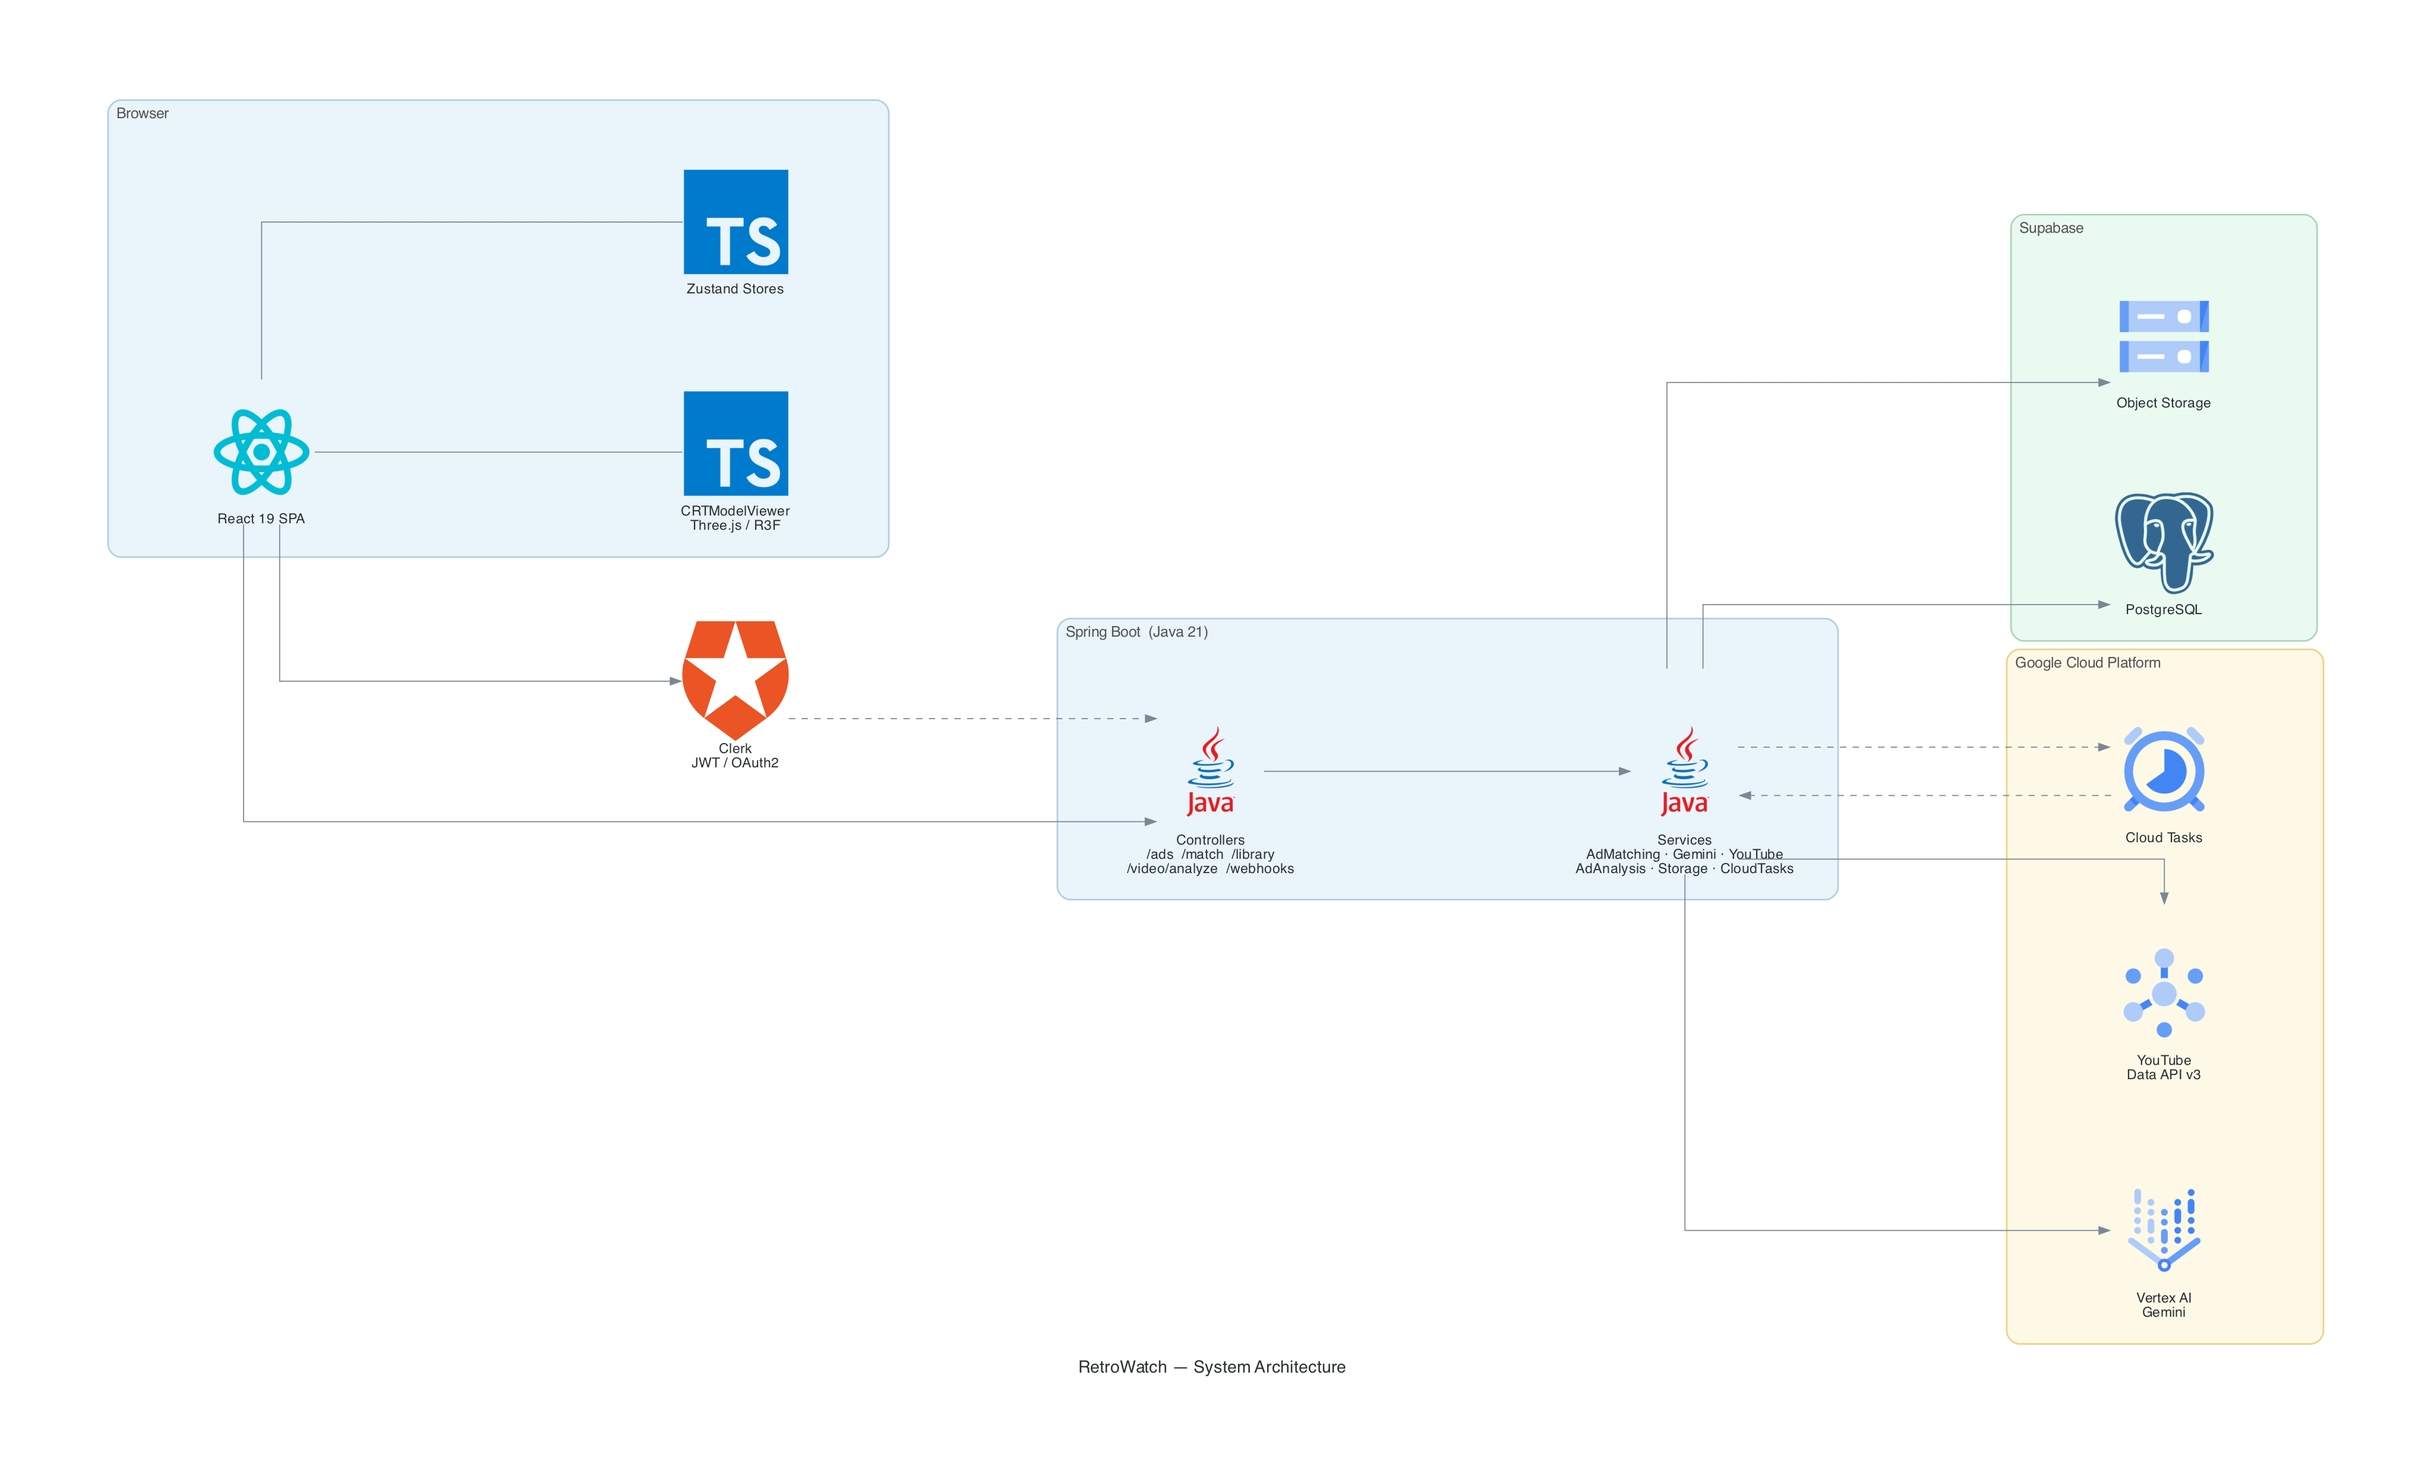
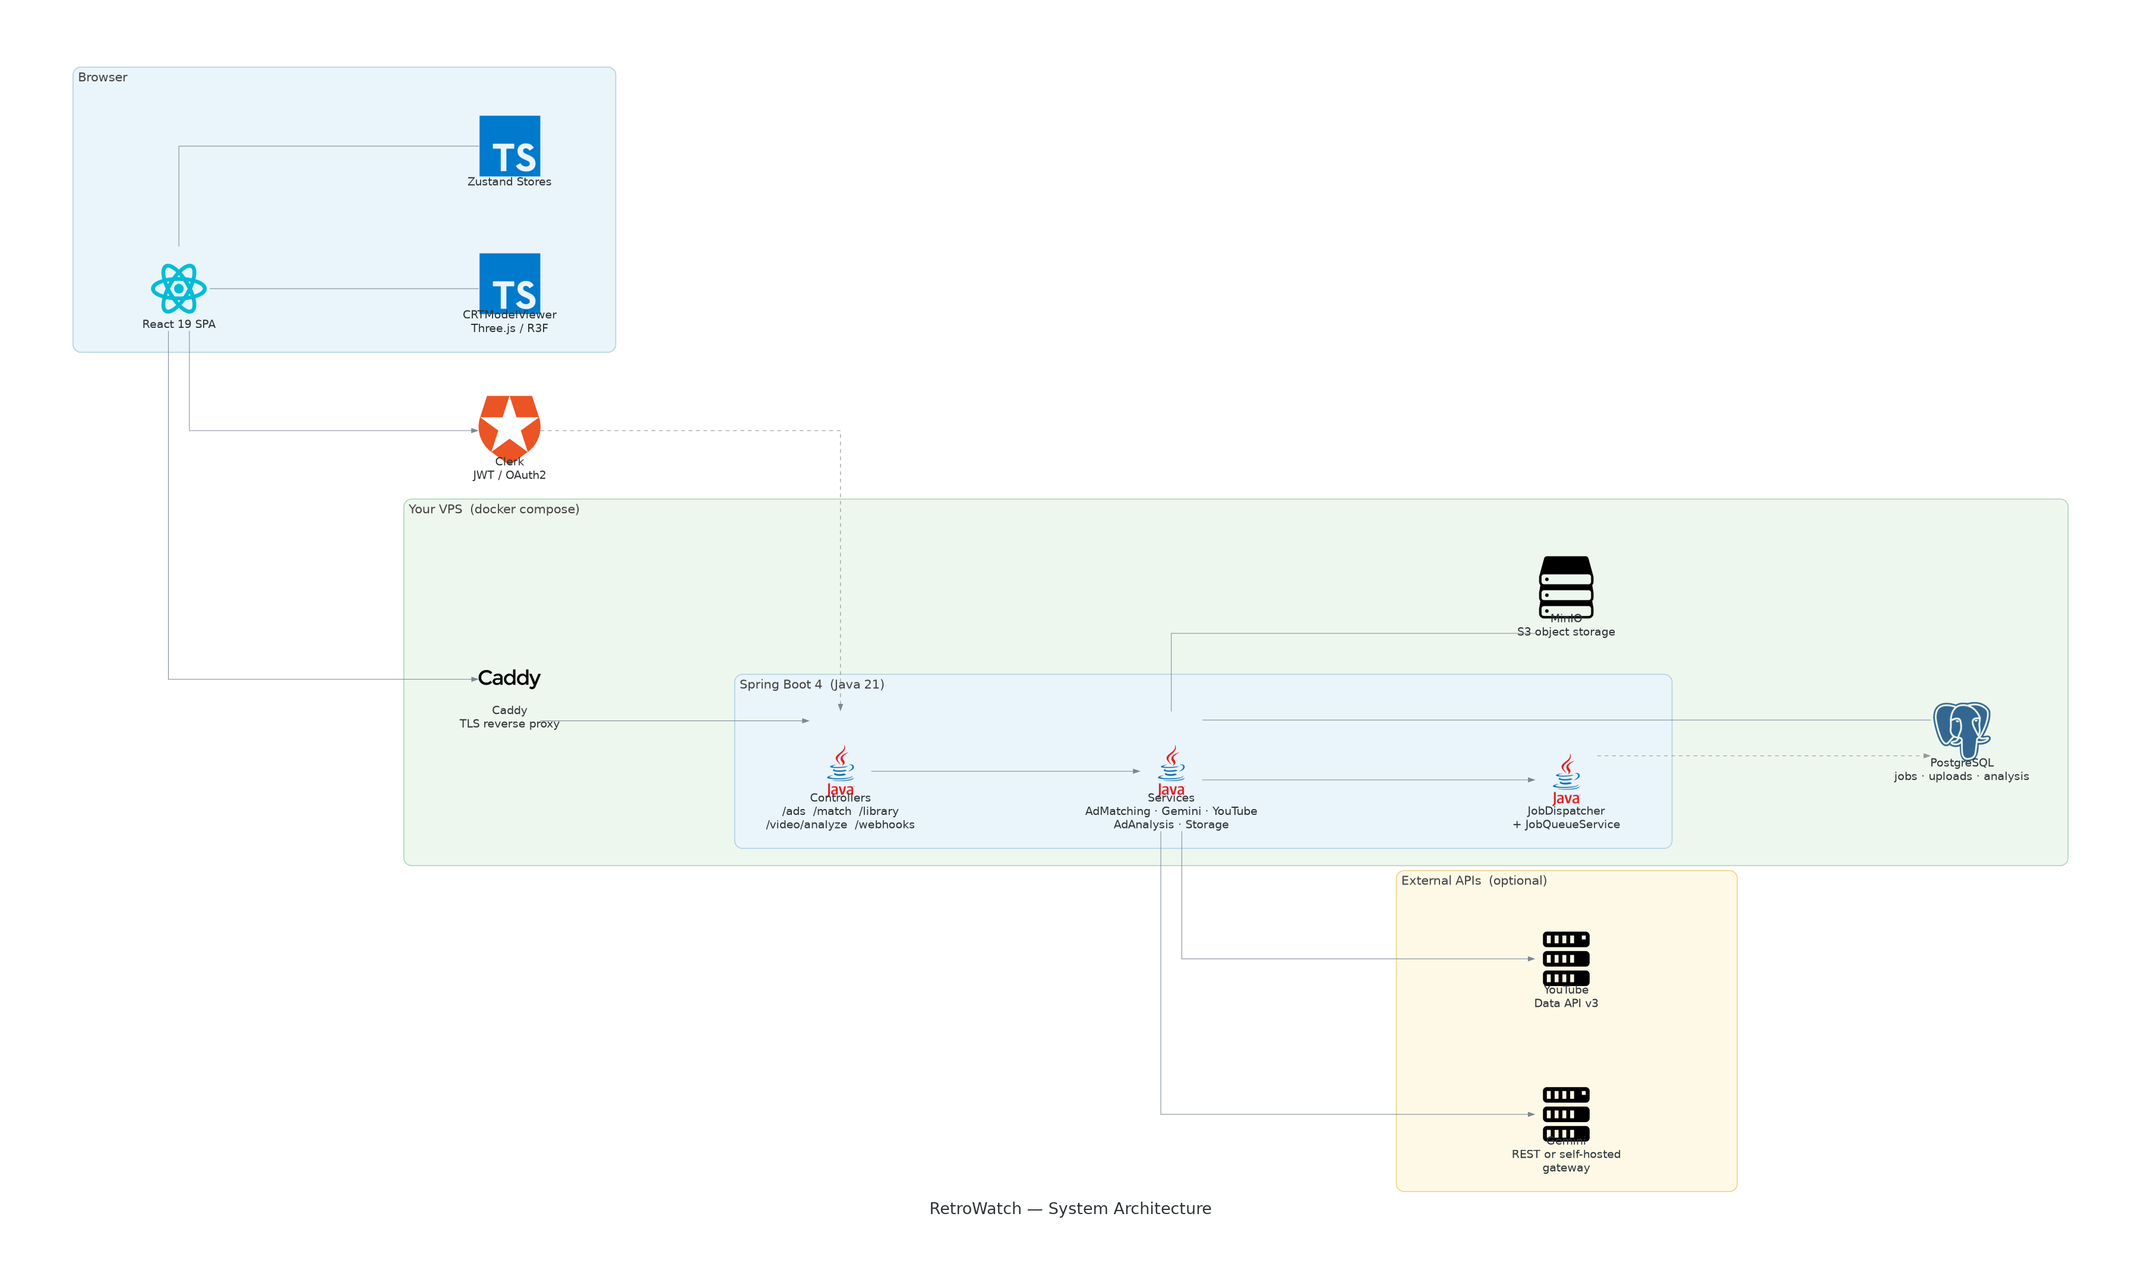
docs: describe the self-hosted architecture and deployment
- README rewritten around the compose stack: dependencies, .env-driven
  configuration, docker/kind/manual workflows, and a VPS deploy section that
  points at deploy/README.md. The Supabase/Vertex AI/Cloud Tasks/Cloud Run
  instructions and the reference to a non-existent run-local.sh are gone.
- architecture_diagram.py redrawn for the current system (Caddy, Spring Boot,
  PostgreSQL, MinIO, Gemini, YouTube) and retrowatch_architecture.png regenerated.

diff --git a/architecture_diagram.py b/architecture_diagram.py
@@ -1,42 +1,45 @@
 from diagrams import Cluster, Diagram, Edge
 from diagrams.programming.framework import React
 from diagrams.programming.language import TypeScript, Java
-from diagrams.gcp.ml import VertexAI
-from diagrams.gcp.devtools import Scheduler
-from diagrams.gcp.analytics import Pubsub
-from diagrams.gcp.storage import GCS
 from diagrams.onprem.database import PostgreSQL
+from diagrams.onprem.network import Caddy
+from diagrams.onprem.compute import Server
 from diagrams.saas.identity import Auth0
+from diagrams.generic.storage import Storage
 
 graph_attr = {
-    "fontsize": "16",
+    "fontsize": "26",
     "bgcolor": "white",
-    "pad": "1.2",
+    "pad": "1.4",
     "splines": "ortho",
     "rankdir": "LR",
-    "dpi": "200",
-    "size": "22,12.375!",
+    "dpi": "160",
+    "size": "24,13.5!",
     "ratio": "fill",
-    "nodesep": "0.8",
-    "ranksep": "1.8",
+    "nodesep": "1.0",
+    "ranksep": "2.0",
     "fontname": "Helvetica",
 }
 
 node_attr = {
-    "fontsize": "13",
+    "fontsize": "18",
     "fontname": "Helvetica",
 }
 
 cluster_attr = {
-    "fontsize": "14",
+    "fontsize": "20",
     "fontname": "Helvetica",
-    "fontcolor": "#555555",
+    "fontcolor": "#444444",
     "style": "rounded,filled",
     "bgcolor": "#eaf4fb",
     "pencolor": "#b0cfe0",
     "penwidth": "1.5",
-    "margin": "24",
+    "margin": "28",
 }
+
+# Self-hosted: every box inside this cluster runs from docker-compose.yml on your
+# own VPS. Nothing in here is a managed cloud service.
+vps_attr = {**cluster_attr, "bgcolor": "#eef7ee", "pencolor": "#a8d5b5"}
 
 with Diagram(
     "RetroWatch — System Architecture",
@@ -59,34 +62,35 @@ with Diagram(
     # ── Identity ───────────────────────────────────────────────────────────
     clerk = Auth0("Clerk\nJWT / OAuth2")
 
-    # ── Backend ────────────────────────────────────────────────────────────
-    with Cluster("Spring Boot  (Java 21)", graph_attr=cluster_attr):
-        controllers = Java("Controllers\n/ads  /match  /library\n/video/analyze  /webhooks")
-        services    = Java("Services\nAdMatching · Gemini · YouTube\nAdAnalysis · Storage · CloudTasks")
-        controllers >> services
+    # ── Self-hosted VPS ────────────────────────────────────────────────────
+    with Cluster("Your VPS  (docker compose)", graph_attr=vps_attr):
+        caddy = Caddy("Caddy\nTLS reverse proxy")
 
-    # ── Supabase ───────────────────────────────────────────────────────────
-    with Cluster("Supabase", graph_attr={**cluster_attr, "bgcolor": "#eafaf1", "pencolor": "#a8d5b5"}):
-        db      = PostgreSQL("PostgreSQL")
-        storage = GCS("Object Storage")
+        with Cluster("Spring Boot 4  (Java 21)", graph_attr=cluster_attr):
+            controllers = Java("Controllers\n/ads  /match  /library\n/video/analyze  /webhooks")
+            services    = Java("Services\nAdMatching · Gemini · YouTube\nAdAnalysis · Storage")
+            queue       = Java("JobDispatcher\n+ JobQueueService")
+            controllers >> services
+            services >> queue
 
-    # ── GCP ────────────────────────────────────────────────────────────────
-    with Cluster("Google Cloud Platform", graph_attr={**cluster_attr, "bgcolor": "#fef9e7", "pencolor": "#f0d080"}):
-        gemini      = VertexAI("Vertex AI\nGemini")
-        yt_api      = Pubsub("YouTube\nData API v3")
-        cloud_tasks = Scheduler("Cloud Tasks")
+        db    = PostgreSQL("PostgreSQL\njobs · uploads · analysis")
+        store = Storage("MinIO\nS3 object storage")
+
+        caddy >> controllers
+        services - db
+        services - store
+        queue >> Edge(color="#999999", style="dashed") >> db
+
+    # ── External APIs ──────────────────────────────────────────────────────
+    with Cluster("External APIs  (optional)", graph_attr={**cluster_attr, "bgcolor": "#fef9e7", "pencolor": "#f0d080"}):
+        gemini = Server("Gemini\nREST or self-hosted\ngateway")
+        yt_api = Server("YouTube\nData API v3")
 
     # ── Edges ──────────────────────────────────────────────────────────────
 
+    react   >> caddy
     react   >> clerk
     clerk   >> Edge(style="dashed") >> controllers
 
-    react   >> controllers
-
-    services >> db
-    services >> storage
-
     services >> gemini
     services >> yt_api
-    services >> Edge(style="dashed") >> cloud_tasks
-    cloud_tasks >> Edge(style="dashed") >> services

diff --git a/README.md b/README.md
@@ -19,15 +19,15 @@ RetroWatch lets you watch any YouTube video through an authentic CRT TV simulati
 
 ## Background
 
-Modern streaming stripped out the communal, serendipitous texture of old TV. RetroWatch is built to bring that back: a 3D CRT television rendered in Three.js, YouTube playback embedded inside it, and an AI pipeline (Vertex AI / Gemini) that picks era-appropriate ads from your own library and splices them in at the right moments.
+Modern streaming stripped out the communal, serendipitous texture of old TV. RetroWatch is built to bring that back: a 3D CRT television rendered in Three.js, YouTube playback embedded inside it, and an AI pipeline (Gemini) that picks era-appropriate ads from your own library and splices them in at the right moments.
 
-The project is a full-stack mono-repo: a React 19 SPA talks to a Spring Boot 4 / Java 21 backend, with Supabase (PostgreSQL + object storage) for persistence and Clerk for auth. Google Cloud Tasks drives async ad analysis, and the YouTube Data API v3 provides video metadata for break-point detection.
+The project is a full-stack mono-repo: a React 19 SPA talks to a Spring Boot 4 / Java 21 backend, with PostgreSQL for persistence and Clerk for auth. Async video processing runs on a database-backed job queue inside the application, object storage is S3-compatible (MinIO), and the YouTube Data API v3 provides video metadata for break-point detection. Everything runs from `docker-compose.yml` on a single VPS — no Google Cloud, no managed services.
 
 ## Architecture
 
 ![RetroWatch System Architecture](retrowatch_architecture.png)
 
-Every user action follows a path through the same layers: React SPA → Clerk JWT → Spring Boot → external services → Supabase. Here is how each major flow works end-to-end.
+Every user action follows a path through the same layers: React SPA → Clerk JWT → Spring Boot → external services → PostgreSQL / object storage. Here is how each major flow works end-to-end.
 
 #### 1. Authentication
 
@@ -39,10 +39,10 @@ Every user action follows a path through the same layers: React SPA → Clerk JW
 
 1. **Frontend** — user selects a video file (MP4, max 100 MB). React uploads it to `POST /api/protected/ads/upload`.
 2. **AdController** — validates the MIME type and file size, then hands off to AdService.
-3. **AdService** — streams the file to Supabase Object Storage (`ads` bucket) and writes an `AdUpload` row in PostgreSQL (file URL, storage path, size, `analysisStatus = pending`).
+3. **AdService** — streams the file to object storage (the `ads` bucket, MinIO or Supabase Storage) and writes an `AdUpload` row in PostgreSQL (file URL, storage path, size, `analysisStatus = pending`).
 4. **AdAnalysisService (async)** — Spring `@Async` fires a background job immediately:
    - Downloads the ad video from storage to a local temp file.
-   - Sends video bytes to **Vertex AI Gemini** with a structured JSON schema.
+   - Sends video bytes to **Gemini** with a structured JSON schema.
    - Gemini returns: categories, tone, era style (1950s–modern), keywords, transcript, brand name, energy level (1–10).
    - Results are written to the `AdMetadata` table; `AdUpload.analysisStatus` flips to `completed` (or `failed`).
    - Temp files are deleted.
@@ -54,7 +54,7 @@ Every user action follows a path through the same layers: React SPA → Clerk JW
 2. **VideoAnalysisController** → **YouTubeAnalysisService**:
    - Extracts the video ID and checks the `VideoAnalysis` table for a cached result. If a cached entry exists it is returned immediately.
    - Otherwise, fetches metadata (title, description, duration, category, tags) from the **YouTube Data API v3**.
-   - Sends that metadata to **Vertex AI Gemini** which returns: categories, topics, sentiment, and a list of ad-break suggestions (timestamp + priority + reason + suggested ad categories).
+   - Sends that metadata to **Gemini** which returns: categories, topics, sentiment, and a list of ad-break suggestions (timestamp + priority + reason + suggested ad categories).
 3. The full analysis is written to the `VideoAnalysis` table (keyed by video ID) and returned to the frontend.
 
 #### 4. Matching Ads to a Video
@@ -77,10 +77,10 @@ Every user action follows a path through the same layers: React SPA → Clerk JW
 1. **Frontend** — user triggers processing with a chosen shader style. React calls `POST /api/protected/process-video`.
 2. **ProcessVideoController**:
    - Confirms the video and ads exist in storage.
-   - Checks that no processing task is already queued for this user.
+   - Checks that no processing job is already queued for this user.
    - Creates a `ProcessingStatus` row (jobId, stage = `QUEUED`, progress = 0%).
-   - Enqueues a **Cloud Tasks** job pointing at the internal worker endpoint.
-3. **VideoWorkerController** (Cloud Tasks callback, OIDC-verified):
+   - Writes a row to the `queued_job` table. `JobDispatcher` polls that table inside the same process and POSTs the job to the worker endpoint with a shared token (`WORKER_AUTH_TOKEN`). Claims use `FOR UPDATE SKIP LOCKED`, attempts are retried with exponential backoff, and a lease makes crashed dispatchers recoverable.
+3. **VideoWorkerController** (dispatcher-authenticated worker endpoint):
    The worker updates `ProcessingStatus` as it moves through stages:
    | Stage | Progress |
    |---|---|
@@ -100,64 +100,72 @@ Every user action follows a path through the same layers: React SPA → Clerk JW
 1. **Frontend** — fetches a signed URL for the processed video (1-hour expiry) via the library endpoint.
 2. **CRTModelViewer** (Three.js / React Three Fiber) renders a 3D CRT television. The processed video — with effects and ads already baked in — plays inside the CRT model.
 3. After viewing, React posts a watch history entry (`POST /api/protected/library/history`) recording the YouTube URL and which ads were shown.
-4. **LibraryController** writes a `watch_history` row in Supabase; `GET /api/protected/library/history` retrieves the user's viewing history.
+4. **LibraryController** writes a `watch_history` row in PostgreSQL; `GET /api/protected/library/history` retrieves the user's viewing history.
 
 ## Install
 
 ### Dependencies
 
-- Node.js 20+ and pnpm
-- Java 21+
-- Docker and Docker Compose
-- Google Cloud project with Vertex AI enabled
-- Supabase project
-- Clerk application
-
-### Environment setup
-
-Create a `.env` file in the project root:
-
-```bash
-# Clerk
-VITE_CLERK_PUBLISHABLE_KEY=pk_test_...
-
-# Supabase
-SUPABASE_URL=https://your-project.supabase.co
-SUPABASE_ANON_KEY=eyJ...
-SUPABASE_SERVICE_ROLE_KEY=eyJ...
-SUPABASE_DB_URL=postgresql://postgres:...
-
-# Google Cloud / Vertex AI
-GCP_PROJECT_ID=your-gcp-project
-GCP_LOCATION=us-central1
-GEMINI_MODEL=gemini-2.0-flash-001
-```
+- Docker and Docker Compose — runs the whole stack (application, PostgreSQL, MinIO)
+- Node.js 20+ and pnpm, Java 21+ — only if you run the frontend or backend outside Docker
+- A Clerk application for auth
+- Optional: a Gemini API key (ad analysis) and a YouTube Data API v3 key (break-point detection)
 
 ### Install
 
 ```bash
-# Docker (recommended)
-./run-local.sh
-
-# Or manually
-docker-compose up --build
+cp .env.example .env      # fill in the required values
+docker compose up -d --build
 ```
+
+Access the app at `http://localhost:8080`.
+
+Configuration lives in `.env`; `.env.example` documents every variable. For a public
+server with automatic HTTPS, see [deploy/README.md](deploy/README.md).
+
+### Environment setup
+
+The important ones:
+
+```bash
+# Required
+POSTGRES_PASSWORD=<openssl rand -base64 32>
+WORKER_AUTH_TOKEN=<openssl rand -hex 32>
+S3_SECRET_KEY=<openssl rand -base64 32>
+VITE_CLERK_PUBLISHABLE_KEY=pk_test_...
+
+# Optional but needed for AI features
+GEMINI_API_KEY=...
+YOUTUBE_API_KEY=...
+
+# Point Gemini at your own gateway instead of Google's API
+# GEMINI_BASE_URL=http://litellm:4000
+```
+
+`VITE_CLERK_PUBLISHABLE_KEY` is compiled into the frontend bundle, so rebuild the
+image (`docker compose build app`) after changing it.
 
 ## Usage
 
 ### Docker
 
 ```bash
-docker-compose up --build
+docker compose up -d --build        # start
+docker compose logs -f app          # follow logs
+docker compose down                 # stop (keeps data)
 ```
 
-Access the app at `http://localhost:8080`.
+Access the app at `http://localhost:8080`. `docker compose --profile tls up -d` adds a
+Caddy reverse proxy with automatic Let's Encrypt certificates.
 
 ### Kubernetes (Tilt)
 
 ```bash
+kind create cluster --config kind-config.yaml
 tilt up
 ```
+
+See `k8s/app.yaml` for the Secret the deployment expects.
 
 ### Manual
 
@@ -172,6 +180,9 @@ cd backend
 mvn spring-boot:run
 ```
 
+The manual path still needs a PostgreSQL instance, an S3-compatible endpoint and the
+same environment variables as the compose stack.
+
 ### CLI — frontend scripts
 
 ```bash
@@ -185,16 +196,18 @@ pnpm lint       # lint
 
 ```bash
 cd backend
-mvn test                # run tests
+mvn test                # run tests (uses H2, no external services needed)
 mvn package             # build JAR
 mvn spring-boot:run     # run locally
 ```
 
-### Deploy to Google Cloud Run
+### Deploy to a VPS
 
 ```bash
-gcloud builds submit --config=cloudbuild.yaml
+git pull && docker compose up -d --build
 ```
+
+Full walkthrough, backups and troubleshooting: [deploy/README.md](deploy/README.md).
 
 ## API
 
